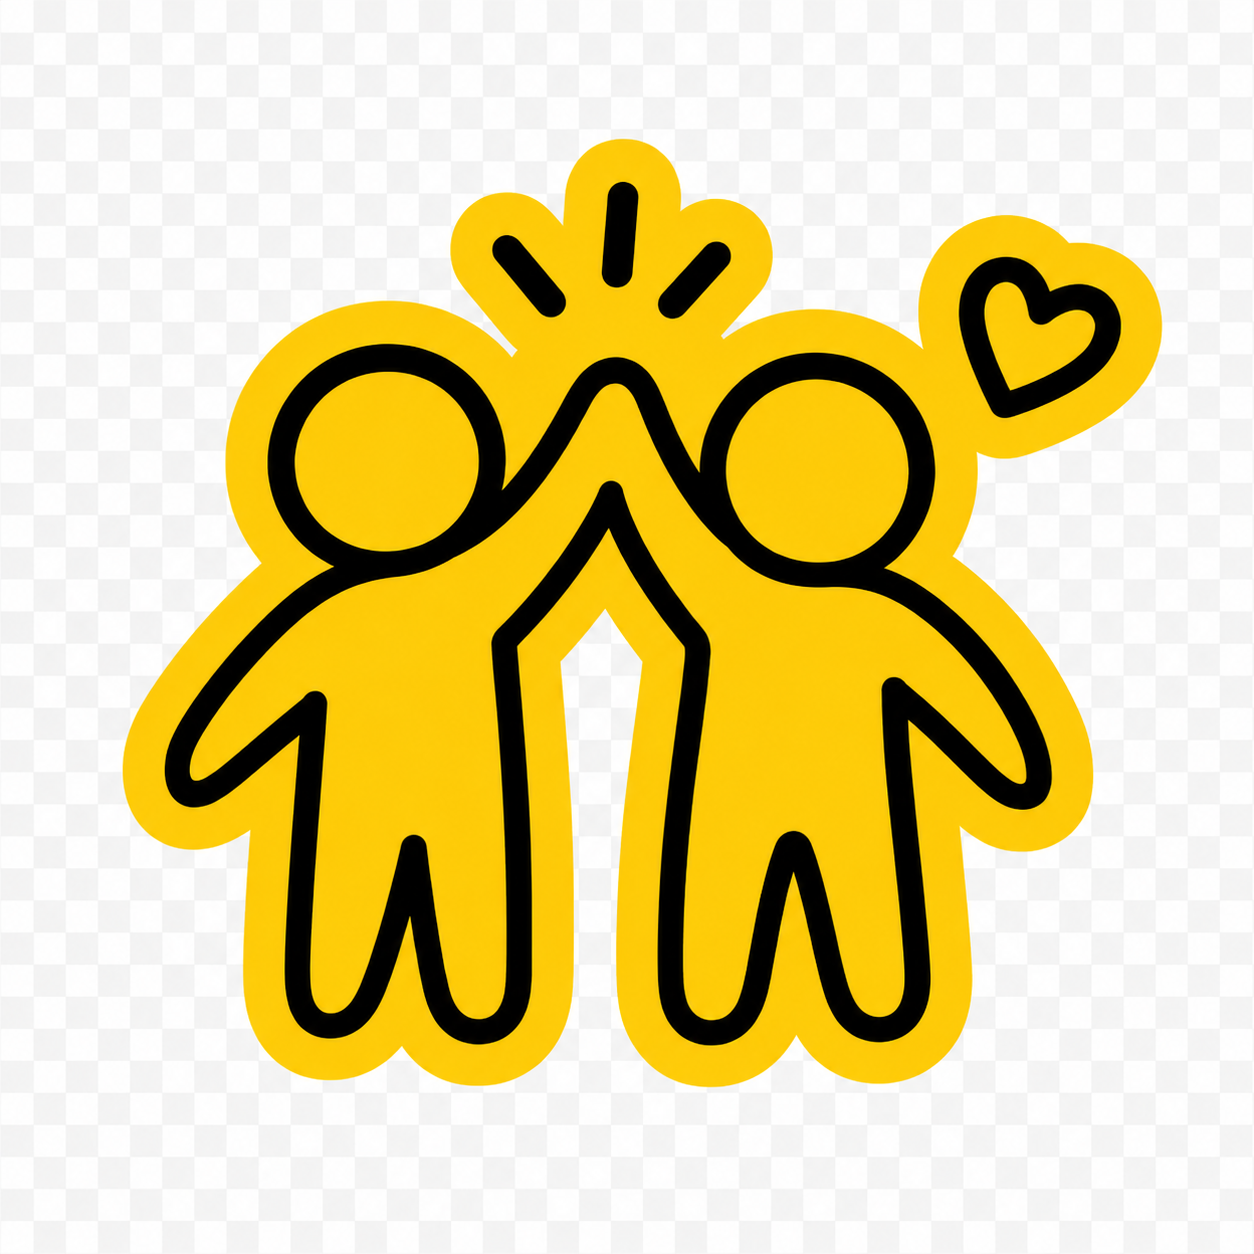
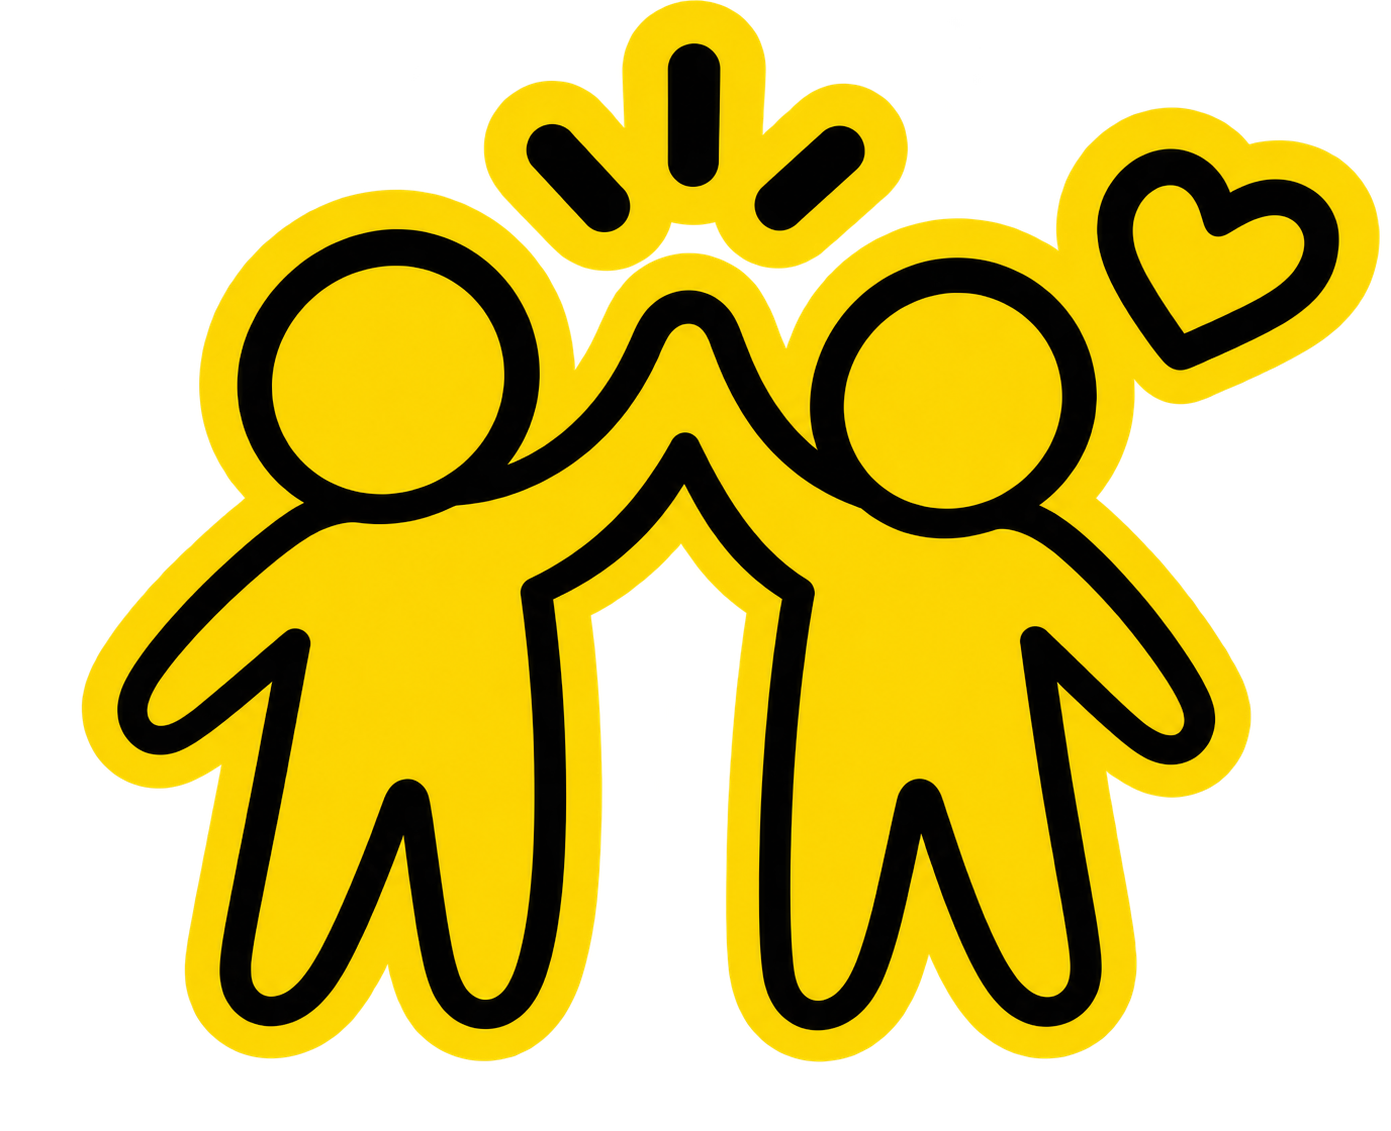
feat: bigger floating card art on the landing page
Swap the hand-coded hero mockup for the illustrated finance-summary-card
artwork, and enlarge the step/feature icons so they float rotated,
overflowing the card edge, matching the neobrutalist sticker style used
elsewhere. Also picks up the improved (properly transparent) exports of
finzy-mascot, phone-chat, and couple-highfive.

diff --git a/src/components/landing/landing-page.tsx b/src/components/landing/landing-page.tsx
@@ -10,7 +10,6 @@ import {
   Facebook,
   HeartHandshake,
   Instagram,
-  MessageCircle,
   ShieldCheck,
 } from "lucide-react";
 import { LinkButton } from "@/components/ui/button";
@@ -154,33 +153,14 @@ export function LandingPage() {
           animate={{ opacity: 1, y: 0, rotate: 2 }}
           transition={{ duration: 0.6, delay: 0.15 }}
         >
-          <div className="card relative p-6 md:p-8">
-            <p className="text-sm font-bold uppercase text-(--muted)">Agosto · En casa</p>
-            <p className="mt-2 text-4xl font-black">1.284,30 €</p>
-            <p className="text-sm text-(--muted)">disponibles este mes</p>
-            <div className="my-7 h-32 rounded-sm bg-(--highlight) p-5">
-              <div className="flex h-full items-end gap-2">
-                {[45, 70, 38, 88, 60, 100, 76].map((height, index) => (
-                  <motion.span
-                    key={index}
-                    className="flex-1 bg-(--ink)"
-                    initial={{ height: 0 }}
-                    animate={{ height: `${height}%` }}
-                    transition={{ duration: 0.5, delay: 0.4 + index * 0.05 }}
-                  />
-                ))}
-              </div>
-            </div>
-            <div className="flex items-center gap-3 rounded-sm border border-(--ink)/20 bg-(--pink) p-3">
-              <span className="grid size-10 shrink-0 place-items-center rounded-full bg-white">
-                <MessageCircle size={20} />
-              </span>
-              <div>
-                <b className="text-sm">“42 € en supermercado”</b>
-                <p className="text-xs text-(--ink)/70">Listo, gasto compartido guardado</p>
-              </div>
-            </div>
-          </div>
+          <Image
+            src="/finance-summary-card.png"
+            alt="Resumen de agosto en casa: 1.284,30 € disponibles este mes, gráfico de gastos y el último movimiento, «42 € en supermercado», guardado como gasto compartido"
+            width={1536}
+            height={1024}
+            className="h-auto w-full"
+            priority
+          />
         </motion.div>
       </section>
 
@@ -214,16 +194,20 @@ export function LandingPage() {
             {steps.map((step, index) => (
               <motion.article
                 key={step.number}
-                className="card overflow-hidden"
+                className="card relative"
                 initial={{ opacity: 0, y: 24 }}
                 whileInView={{ opacity: 1, y: 0 }}
                 viewport={{ once: true, margin: "-60px" }}
                 transition={{ duration: 0.45, delay: index * 0.1 }}
               >
-                <div className={`flex items-center justify-between p-6 ${step.tone}`}>
-                  <span className="grid size-12 place-items-center rounded-full bg-white">
-                    <Image src={step.image} alt="" width={44} height={44} className="size-8 object-contain" />
-                  </span>
+                <Image
+                  src={step.image}
+                  alt=""
+                  width={112}
+                  height={112}
+                  className="absolute -top-7 -left-6 z-10 size-24 rotate-[-8deg] object-contain drop-shadow-[4px_4px_0_rgba(58,52,52,0.18)]"
+                />
+                <div className={`flex justify-end rounded-t-[0.35rem] p-6 ${step.tone}`}>
                   <span className="text-5xl font-black text-(--ink)/20">{step.number}</span>
                 </div>
                 <div className="p-6">
@@ -320,17 +304,21 @@ export function LandingPage() {
             {features.map((feature, index) => (
               <motion.article
                 key={feature.title}
-                className={`rounded-sm border border-(--ink)/20 p-6 ${feature.tone}`}
+                className={`relative rounded-sm border border-(--ink)/20 p-6 ${feature.tone}`}
                 initial={{ opacity: 0, y: 24 }}
                 whileInView={{ opacity: 1, y: 0 }}
                 viewport={{ once: true, margin: "-60px" }}
                 transition={{ duration: 0.45, delay: index * 0.08 }}
               >
-                <span className="grid size-11 place-items-center rounded-full bg-white">
-                  <Image src={feature.image} alt="" width={40} height={40} className="size-7 object-contain" />
-                </span>
-                <h3 className="mt-4 text-lg font-black">{feature.title}</h3>
-                <p className="mt-1 text-sm text-(--ink)/75">{feature.description}</p>
+                <Image
+                  src={feature.image}
+                  alt=""
+                  width={100}
+                  height={100}
+                  className="absolute -top-6 -right-5 z-10 size-20 rotate-6 object-contain drop-shadow-[3px_3px_0_rgba(58,52,52,0.18)]"
+                />
+                <h3 className="max-w-[70%] text-lg font-black">{feature.title}</h3>
+                <p className="mt-1 max-w-[88%] text-sm text-(--ink)/75">{feature.description}</p>
               </motion.article>
             ))}
           </div>
